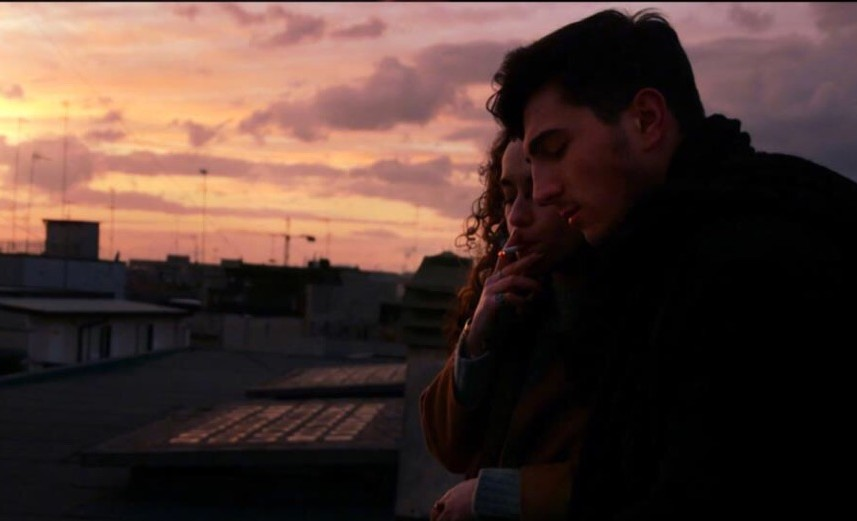
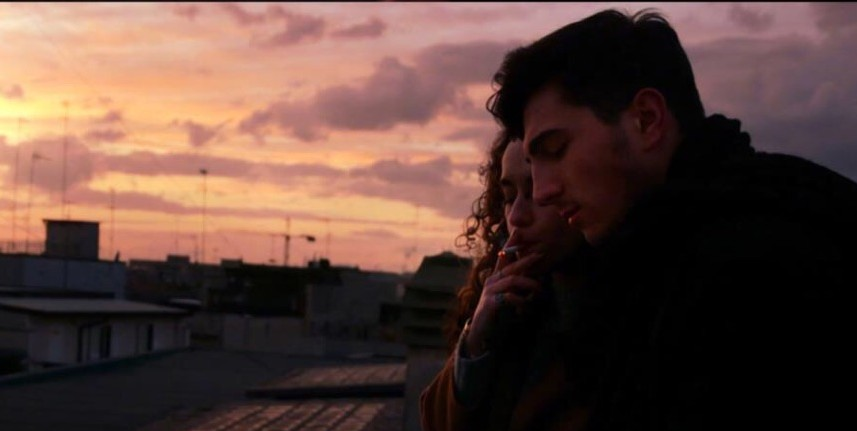
Site updated: 2019-10-20 18:06:38

diff --git a/archives/2019/10/index.html b/archives/2019/10/index.html
@@ -43,7 +43,7 @@
 </head>
 <body>
 <div id="page">
-<div id="lx-aside" style="background-image: url(/images/cover3.JPG)">
+<div id="lx-aside" style="background-image: url(/images/cover5.JPG)">
   <div class="overlay">
   <div class="featured">
     <div class="avatar"><a href="/"><img src="/images/head1.JPG"></a></div>

diff --git a/archives/2019/index.html b/archives/2019/index.html
@@ -43,7 +43,7 @@
 </head>
 <body>
 <div id="page">
-<div id="lx-aside" style="background-image: url(/images/cover3.JPG)">
+<div id="lx-aside" style="background-image: url(/images/cover5.JPG)">
   <div class="overlay">
   <div class="featured">
     <div class="avatar"><a href="/"><img src="/images/head1.JPG"></a></div>

diff --git a/archives/index.html b/archives/index.html
@@ -43,7 +43,7 @@
 </head>
 <body>
 <div id="page">
-<div id="lx-aside" style="background-image: url(/images/cover3.JPG)">
+<div id="lx-aside" style="background-image: url(/images/cover5.JPG)">
   <div class="overlay">
   <div class="featured">
     <div class="avatar"><a href="/"><img src="/images/head1.JPG"></a></div>

diff --git a/index.html b/index.html
@@ -43,7 +43,7 @@
 </head>
 <body>
 <div id="page">
-<div id="lx-aside" style="background-image: url(/images/cover3.JPG)">
+<div id="lx-aside" style="background-image: url(/images/cover5.JPG)">
   <div class="overlay">
   <div class="featured">
     <div class="avatar"><a href="/"><img src="/images/head1.JPG"></a></div>

diff --git a/tags/Study-Notes/index.html b/tags/Study-Notes/index.html
@@ -44,7 +44,7 @@
 <body>
 
 <div id="page">
-<div id="lx-aside" style="background-image: url(/images/cover3.JPG)">
+<div id="lx-aside" style="background-image: url(/images/cover5.JPG)">
   <div class="overlay">
   <div class="featured">
     <div class="avatar"><a href="/"><img src="/images/head1.JPG"></a></div>

diff --git a/tags/plan/index.html b/tags/plan/index.html
@@ -44,7 +44,7 @@
 <body>
 
 <div id="page">
-<div id="lx-aside" style="background-image: url(/images/cover3.JPG)">
+<div id="lx-aside" style="background-image: url(/images/cover5.JPG)">
   <div class="overlay">
   <div class="featured">
     <div class="avatar"><a href="/"><img src="/images/head1.JPG"></a></div>
